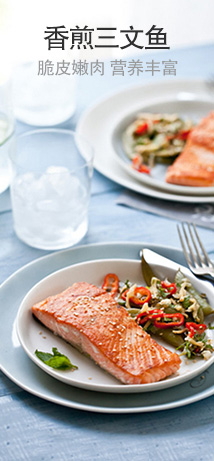
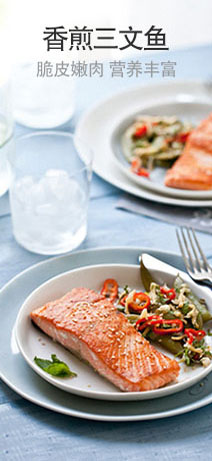
[Add-cjshop]修正图片规格，增加背景色

diff --git a/index/layout1/instructions/instructions1/res/css/instructions.css b/index/layout1/instructions/instructions1/res/css/instructions.css
@@ -1,7 +1,7 @@
 @charset "utf-8";
 /* CSS Document */
 
-.instructions{ width:100%; margin:.72rem 0; border:solid #ddd; border-width:1px 0;}
+.instructions{ width:100%; margin:.72rem 0; border:solid #ddd; border-width:1px 0; background: #fff; }
 .instructions .instru-box{ margin:0 5.6%; border-bottom:1px solid #ddd;}
 .instructions .instru-box .box-left,.instructions .instru-box .box-right{ float:left; margin-top:4.9%; margin-bottom:3.8%;}
 .instructions .instru-box .box-left{ width:25%; margin:4.9% 4% 3.8% 1.7%;}

diff --git a/index/layout1/首页12.html b/index/layout1/首页12.html
@@ -20,7 +20,7 @@
 
 </head>
 
-<body>
+<body style="background:#f7f5f6" > 
 	<div class="ad-header"><img src="header/header6/res/img/ad-img.jpg"></div>
     <!--轮播图片-->
     <script type="text/javascript" src="header/header6/res/js/touchslider.js"></script>
